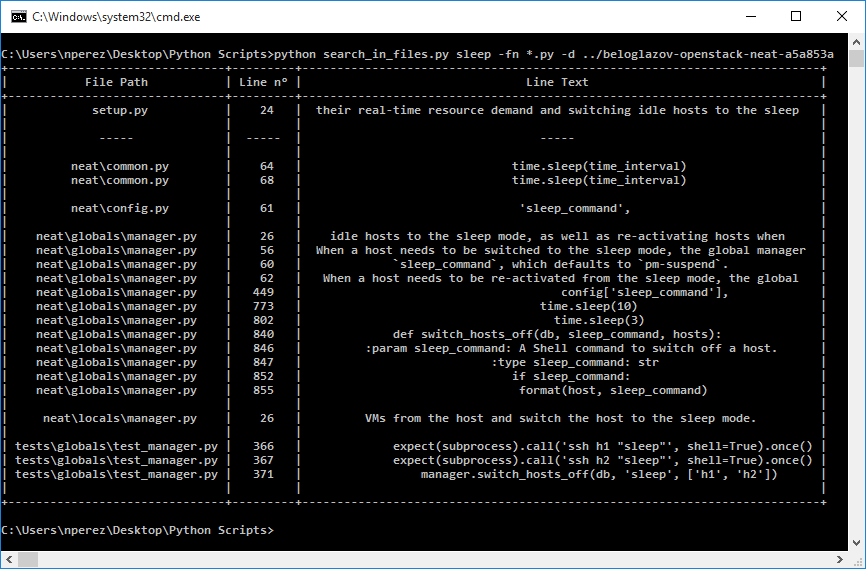
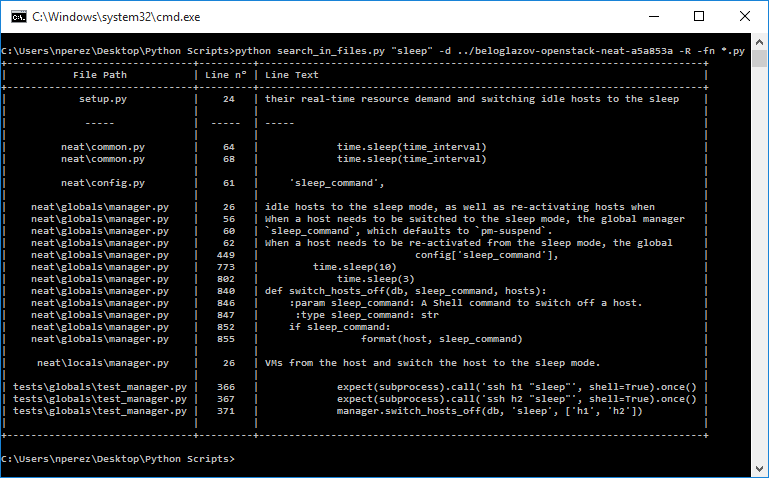
Added option for recursive search in directory

Changed region(s): [[0.0, 0.0, 1.0, 1.0], [0.4369, 0.2636, 0.8114, 0.3808]]

diff --git a/search_in_files.py b/search_in_files.py
@@ -2,23 +2,24 @@
 # -*- coding: utf-8 -*-
 
 """Multithreaded, recursive text or regex search in all text-containing files
-in a directory (pure Python).
+in a directory.
 
 Additional features:
     - Case sensitivity
-    - print results as PrettyTable
+    - Can search recursively in the folder or not
+    - Print results as PrettyTable
         (one table for all files or one table per file)
-    - can also return the result as an OrderedDict 
+    - Can also return the result as an OrderedDict 
 
 Usage examples: 
     - Real example of what I wanted to do when I wrote this program: 
-python search_in_files.py "sleep" -d beloglazov-openstack-neat-a5a853a -fn *.py
+python search_in_files.py "sleep" -d beloglazov-openstack-neat-a5a853a -R -fn *.py
 
     - Other possible examples:
 python search_in_files.py " Watson " -d sherlockHolmesBooks -fn *.txt -s
 python search_in_files.py caseSensitiveWord -C -d ../foldername -fn *.txt
-python search_in_files.py #FIXME -fn *.py
-python search_in_files.py #[A-Z]{3,5} -r -C -fn *.py
+python search_in_files.py #FIXME -R -fn *.py
+python search_in_files.py #[A-Z]{3,5} -r -C -R -fn *.py
 python search_in_files.py "Hello World"
 """
 
@@ -50,7 +51,7 @@ class cd:
 
 
 def search_in_files(expression, isRegex=False, case_sensitive=False,
-    folderpath='.', filename_regex='*',
+    folderpath='.', recursiveSearch=False, filename_regex='*',
     printPrettyTable=True, separate_tables=False):
     
     def select_line_matcher(expression=expression, isRegex=isRegex):
@@ -89,17 +90,19 @@ def search_in_files(expression, isRegex=False, case_sensitive=False,
     #Change current directory to folderpath
     with cd(folderpath):
         #Recursively lists all file paths that match filename_regex
-        filepaths = glob("**/"+filename_regex, recursive=True)
+        filepaths = glob(
+            "**/"+filename_regex if recursiveSearch else filename_regex,
+            recursive=True)
         #Open each file, search for the expression, list all matching lines
         #in order
         filematches = pool.map(search_in_file, filepaths)
         pool.close()
         pool.join()
-        #Map each filepath to its list of matching lines
+        #Map each filepath to its corresponding list of matching lines
         for filepath, filematch in zip(filepaths, filematches):
             results[filepath] = filematch
     
-    #Order the results by file path
+    #Order the results by file path.
     orderedResults = OrderedDict(sorted(
         {k:v for (k,v) in results.items() if len(k.split('\\')) == 1}.items()))
     orderedResultsRest = OrderedDict(sorted(
@@ -120,6 +123,10 @@ def search_in_files(expression, isRegex=False, case_sensitive=False,
                     if matchedLines:
                         print(x)
         else:
+            '''Files located at the root of the directory appear first in the
+            table. Add a blank line between results from different files.
+            Add a separator in the table between files that were found directly
+            in the directory and files that were found recursively.'''
             x = PrettyTable(prettyTableColumns)
             x.align[prettyTableColumns[-1]] = 'l'
             for orderedResultsDict in orderedResultsDicts:
@@ -129,10 +136,17 @@ def search_in_files(expression, isRegex=False, case_sensitive=False,
                             [filepath, matchedLine.num, matchedLine.text])
                     if matchedLines:
                         x.add_row(["", "", ""])
-                if orderedResultsDict != orderedResultsDicts[-1] \
+                if orderedResultsDict is not orderedResultsDicts[-1] \
                     and sum([len(vals) for vals in orderedResultsDict.values()
                             ]) != 0:
                     x.add_row(["-----\n" for _ in range(len(x.field_names))])
+                elif orderedResultsDict is orderedResultsDicts[-1] \
+                    and sum([len(vals) for vals in orderedResultsDict.values()
+                            ]) == 0:
+                    try:
+                        x.del_row(len(x._rows)-1)
+                    except:
+                        pass
             print(x)
     else:
         return orderedResults
@@ -143,26 +157,30 @@ if __name__ == "__main__":
     parser.add_argument("e", type=str, help="the expression to search for")
     parser.add_argument("-r", "--regex", action="store_true",
         help="evaluate the expression as a regex")
+    parser.add_argument("-C", "--casesensitive", action="store_true",
+        help="enable case-sensitive matching")
     parser.add_argument("-d", "--directory", type=str,
         help="the path to the containing directory")
+    parser.add_argument("-R", "--recursive", action="store_true",
+        help="searches recursively in the given directory")
     parser.add_argument("-fn", "--filenameregex", type=str, 
         help="search only in the files whose name match this regex")
     parser.add_argument("-s", "--separatetables", action="store_true",
         help="prints the search results in separate tables for each file")
-    parser.add_argument("-C", "--casesensitive", action="store_true",
-        help="enable case-sensitive matching")
 
     args = parser.parse_args()
     expression = args.e
     isRegex = args.regex
+    case_sensitive = args.casesensitive
     folderpath = args.directory if args.directory else "."
+    recursiveSearch = args.recursive
     filename_regex = args.filenameregex if args.filenameregex else "*"
     separate_tables = args.separatetables
-    case_sensitive = args.casesensitive
 
     search_in_files(expression=expression,
                     isRegex=isRegex,
                     case_sensitive = case_sensitive,
                     folderpath=folderpath,
-                    filename_regex=filename_regex, 
+                    recursiveSearch=recursiveSearch,
+                    filename_regex=filename_regex,
                     separate_tables=separate_tables)
